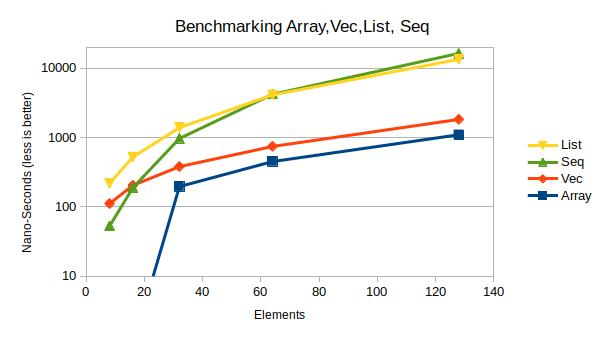
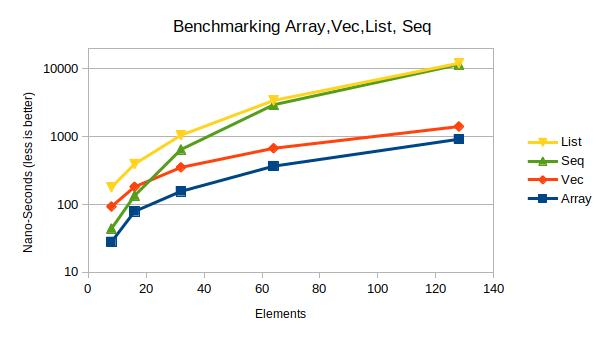
update api-docs and benchmarks using rustc-1.27-nightly, update the benchmark diagram

diff --git a/src/lib.rs b/src/lib.rs
@@ -1,14 +1,20 @@
 #![cfg_attr(feature = "benchmark", feature(test))]
-
-//! The module `seq` provides the lightweight, generic sequence container `Seq` for unmovable data
-//! and is embedded into the program during compile time. Elements of `Seq` are
-//! stacked on top of each other.
+ 
+//! The module `seq` provides the lightweight, generic sequence container [`Seq`] for unmovable data.
 //!
-//! Initially a sequence is empty. A longer sequence is constructed attaching a new _head_
-//! to the existing sequence, representing the _tail_.
-//!
+//! The container `Seq` is linking data of hierarchical function-scopes on top of each other,
+//! forming sequences. A sequence can be embedded into the program during compile time.
+//! 
+//! Initially a sequence is empty. A longer sequence is constructed (see [`ConsRef`]) attaching a
+//! new _head_ to the existing sequence, representing the _tail_.  The _head_ element has a shorter
+//! lifetime, than all elements of the _tail_.
+//! 
 //! Multiple sequences may share the same _tail_, permitting memory-efficient organisation of
 //! hierarchical data.
+//! 
+//! The associated methods [`head`] and [`tail`] have been defined for convenience reasons only.
+//! The construction and deconstruction of a sequence is realized by the algebraic data-types of Rust
+//! solely.
 //!
 //! Put this in your Cargo.toml:
 //! ```toml
@@ -68,6 +74,8 @@
 //! [`ConsRef`]: enum.Seq.html#variant.ConsRef
 //! [`tail`]:  #method.tail
 //! [`head`]:  #method.head
+//! [`Seq`]: enum.Seq.html
+
 use std::fmt;
 use std::iter::Iterator;
 
@@ -89,12 +97,15 @@ use std::iter::Iterator;
 /// // construction the sequence 'seq2' sharing data with 'seq1'
 /// const seq2: Seq<i32> = Seq::ConsRef(2, &seq1);
 /// ```
-/// Deconstructing a sequence
+/// Deconstructing a sequence into the [`head`] and [`tail`]
 /// ```rust
 /// use seq::Seq;
 ///
-/// fn print_head<'a>(seq: &'a Seq<i32>) {
-///    println!("head {}", seq.head().unwrap());
+/// fn deconstruct<'a>(seq: &'a Seq<i32>) {
+///    let head = seq.head().unwrap();
+///    let tail = seq.tail().unwrap();
+///    // more code here
+///    // ...
 /// }
 /// ```
 /// Extend an existing sequence. Note the lifetime of the return type matches the one of the tail.

diff --git a/README.md b/README.md
@@ -1,14 +1,20 @@
 # seq module
 
-The module `seq` provides the lightweight, generic sequence container `Seq` for unmovable data
-and is embedded into the program during compile time. Elements of `Seq` are
-stacked on top of each other.
+The module `seq` provides the lightweight, generic sequence container `Seq` for unmovable data.
 
-Initially a sequence is empty. A longer sequence is constructed attaching a new _head_
-to the existing sequence, representing the _tail_.
+The container `Seq` is linking data of hierarchical function-scopes on top of each other,
+forming sequences. A sequence can be embedded into the program during compile time.
+
+Initially a sequence is empty. A longer sequence is constructed (see `Seg::ConsRef`) attaching a
+new _head_ to the existing sequence, representing the _tail_.  The _head_ element has a shorter
+lifetime, than all elements of the _tail_.
 
 Multiple sequences may share the same _tail_, permitting memory-efficient organisation of
 hierarchical data.
+
+The associated methods `Seq::head` and `Seq::tail` have been defined for convenience reasons only.
+The construction and deconstruction of a sequence is realized by the algebraic data-types of Rust
+solely.
 
 ## Usage
 
@@ -33,8 +39,6 @@ pub enum Seq<'a, T: 'a> {
 
 ## Examples
 
-
-
 Constructing two sequences seq1 as `[1,0]` and seq2 as `[2,1,0]`, sharing data with `seq1`
 ```rust
 // constructing the sequence 'seq1'
@@ -43,10 +47,13 @@ const seq1: Seq<i32> = Seq::ConsRef(1, &Seq::ConsRef(0, &Seq::Empty));
 // construction the sequence 'seq2' sharing data with 'seq1'
 const seq2: Seq<i32> = Seq::ConsRef(2, &seq1);
 ```
-Deconstructing a sequence
+Deconstructing a sequence  into the `head` and `tail`
 ```rust
-fn print_head<'a>(seq: &'a Seq<i32>) {
-   println!("head {}", seq.head().unwrap());
+fn deconstruct<'a>(seq: &'a Seq<i32>) {
+   let head = seq.head().unwrap());
+   let tail = seq.tail().unwrap();
+   // more code here
+   ///
 }
 ```
 Extend an existing sequence. Note the lifetime of the return type matches the one of the tail.
@@ -71,7 +78,7 @@ fn sum_up(seq: &Seq<i32>) -> i32 {
 ## Memory layout
 
 The following image illustrates the sequences `s`, `t`, `u`. The sequence `s` is a sub-sequence of `t`, and `t` 
-being a sub-sequence of `u`; each one accessible in its function context only. 
+being a sub-sequence of `u`; each one accessible in its function context only. One can create a new sequence containing additional elements, wihtout the need to create a copy of all elements.
 ![Illustration of sequence elements in stack frames](./doc/illustration.svg)
 
 For use-cases where a sub-routine/expression shall return a temporary extended sequence, it is possible to construct new 
@@ -86,40 +93,42 @@ The benchmark is a memory-intensive, recursive function call and benefits from c
 each recursive function-call a new integer element is appended and an iterator is cumulating all elements.
 
 As the benchmark-chart demonstrates, the container `Seq` performs better than `Vec` and`LinkedList` for up to
-`N=16` elements; and even shows better performance than `LinkedList` if less than `N=64` elements. The benchmark
-is performed for up to N= 8, 16, 32, 64, 128, 256, 512.
+`N=16` elements; and even shows better performance than `LinkedList`, and lower variants up to a
+certain bound. The benchmark is performed for N= 8, 16, 32, 64, 128, 256, 512.
+
+The test-environment is using a Lenovo-x260 laptop using `rustc 1.27.0-nightly (bd40cbbe1 2018-04-14)`.
 
 ```> cargo bench --features benchmark```
 
 ```commandline
-test benchmark::bench_array___8 ... bench:           0 ns/iter (+/- 0)
-test benchmark::bench_array__16 ... bench:           0 ns/iter (+/- 0)
-test benchmark::bench_array__32 ... bench:         196 ns/iter (+/- 9)
-test benchmark::bench_array__64 ... bench:         450 ns/iter (+/- 29)
-test benchmark::bench_array_128 ... bench:       1,109 ns/iter (+/- 98)
-test benchmark::bench_array_256 ... bench:       3,125 ns/iter (+/- 50)
-test benchmark::bench_array_512 ... bench:      12,053 ns/iter (+/- 230)
-test benchmark::bench_list___8  ... bench:         215 ns/iter (+/- 4)
-test benchmark::bench_list__16  ... bench:         527 ns/iter (+/- 10)
-test benchmark::bench_list__32  ... bench:       1,408 ns/iter (+/- 461)
-test benchmark::bench_list__64  ... bench:       4,209 ns/iter (+/- 86)
-test benchmark::bench_list_128  ... bench:      13,638 ns/iter (+/- 884)
-test benchmark::bench_list_256  ... bench:      52,786 ns/iter (+/- 4,552)
-test benchmark::bench_list_512  ... bench:     188,453 ns/iter (+/- 3,053)
-test benchmark::bench_seq___8   ... bench:          53 ns/iter (+/- 1)
-test benchmark::bench_seq__16   ... bench:         191 ns/iter (+/- 10)
-test benchmark::bench_seq__32   ... bench:       1,081 ns/iter (+/- 30)
-test benchmark::bench_seq__64   ... bench:       4,432 ns/iter (+/- 82)
-test benchmark::bench_seq_128   ... bench:      16,749 ns/iter (+/- 209)
-test benchmark::bench_seq_256   ... bench:      63,775 ns/iter (+/- 528)
-test benchmark::bench_seq_512   ... bench:     247,919 ns/iter (+/- 2,183)
-test benchmark::bench_vec___8   ... bench:         111 ns/iter (+/- 3)
-test benchmark::bench_vec__16   ... bench:         221 ns/iter (+/- 4)
-test benchmark::bench_vec__32   ... bench:         398 ns/iter (+/- 11)
-test benchmark::bench_vec__64   ... bench:         735 ns/iter (+/- 19)
-test benchmark::bench_vec_128   ... bench:       1,634 ns/iter (+/- 49)
-test benchmark::bench_vec_256   ... bench:       4,774 ns/iter (+/- 103)
-test benchmark::bench_vec_512   ... bench:      15,306 ns/iter (+/- 250)
+test benchmark::bench_array_008  ... bench:          28 ns/iter (+/- 2)
+test benchmark::bench_array_016  ... bench:          70 ns/iter (+/- 0)
+test benchmark::bench_array_032  ... bench:         156 ns/iter (+/- 7)
+test benchmark::bench_array_064  ... bench:         368 ns/iter (+/- 10)
+test benchmark::bench_array_128  ... bench:         920 ns/iter (+/- 39)
+test benchmark::bench_array_256  ... bench:       2,639 ns/iter (+/- 138)
+test benchmark::bench_array_512  ... bench:       8,355 ns/iter (+/- 263)
+test benchmark::bench_list_008   ... bench:         179 ns/iter (+/- 8)
+test benchmark::bench_list_016   ... bench:         396 ns/iter (+/- 17)
+test benchmark::bench_list_032   ... bench:       1,053 ns/iter (+/- 58)
+test benchmark::bench_list_064   ... bench:       3,433 ns/iter (+/- 173)
+test benchmark::bench_list_128   ... bench:      12,158 ns/iter (+/- 276)
+test benchmark::bench_list_256   ... bench:      48,419 ns/iter (+/- 585)
+test benchmark::bench_list_512   ... bench:     186,391 ns/iter (+/- 4,401)
+test benchmark::bench_seq_008    ... bench:          44 ns/iter (+/- 1)
+test benchmark::bench_seq_016    ... bench:         135 ns/iter (+/- 10)
+test benchmark::bench_seq_032    ... bench:         648 ns/iter (+/- 41)
+test benchmark::bench_seq_064    ... bench:       2,964 ns/iter (+/- 75)
+test benchmark::bench_seq_128    ... bench:      11,654 ns/iter (+/- 278)
+test benchmark::bench_seq_256    ... bench:      44,908 ns/iter (+/- 570)
+test benchmark::bench_seq_512    ... bench:     175,569 ns/iter (+/- 4,009)
+test benchmark::bench_vec_008    ... bench:          93 ns/iter (+/- 4)
+test benchmark::bench_vec_016    ... bench:         182 ns/iter (+/- 4)
+test benchmark::bench_vec_032    ... bench:         353 ns/iter (+/- 13)
+test benchmark::bench_vec_064    ... bench:         676 ns/iter (+/- 8)
+test benchmark::bench_vec_128    ... bench:       1,415 ns/iter (+/- 78)
+test benchmark::bench_vec_256    ... bench:       3,485 ns/iter (+/- 212)
+test benchmark::bench_vec_512    ... bench:      11,261 ns/iter (+/- 425)
 ```
 
 ![Benchmark chart](./doc/bench-chart.jpg)
@@ -129,5 +138,5 @@ to the tail.
 
 ## Conclusion
 These benchmarks show, the collection `Seq` shows better performance than `Vec` for 16 elements or less, and even
-better performance than `LinkedList` for 64 elements or less. In this range `Seq` benefits from stack-memory.
-When `N>64` performance drops, probably caused by page-faults and the need to request new memory-pages from OS.
+better performance than `LinkedList` for all test-cases up to 512 elements. In this range `Seq` benefits from stack-memory.
+When `N>32` the performance drops, probably caused by page-faults and the need to request additional stack memory-pages from OS, getting similar to the performance of linked-lists.
